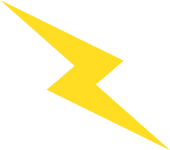
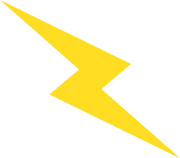
Set new left/right bolt position

diff --git a/game.cpp b/game.cpp
@@ -155,22 +155,12 @@ Result gameLevel(OSL_SOUND *quit_open, OSL_SOUND *quit_close, OSL_SOUND *cancel,
 		}
 
 		// activates random bolts's appearance for each side, depending on maximum number of bolts set above for each side
-		/*for (i=LEFT; i<DOWN+1; i++) {
+		for (i=LEFT; i<DOWN+1; i++) {
 			n = 0;
 			for (j=0; j<4; j++) {
 				boltOn[i][j] = 0;
 				if ((n <nbBolt[i]) && (i <UP) && (j<MAXBOLTY))	boltOn[i][j] = rand()%2;
 				else if ((n <nbBolt[i]) && (i >RIGHT))	boltOn[i][j] = rand()%2;
-				if (boltOn[i][j])	n++;
-			}
-		}*/
-		// activates random bolts's appearance for each side, depending on maximum number of bolts set above for each side
-		for (i=LEFT; i<DOWN+1; i++) {
-			n = 0;
-			for (j=0; j<4; j++) {
-				boltOn[i][j] = 1;
-				if (i <UP)	boltOn[i][j] = 0;
-				//else if ((n <nbBolt[i]) && (i >RIGHT))	boltOn[i][j] = rand()%2;
 				if (boltOn[i][j])	n++;
 			}
 		}

diff --git a/constants.h b/constants.h
@@ -47,8 +47,8 @@ by Yosh alias Hitman_07
 //bolt disposition parameters
 # define BORDER_LAGX1 20
 # define BORDER_LAGX2 86
-# define BORDER_LAGY1 60
-# define BORDER_LAGY2 60
+# define BORDER_LAGY1 50
+# define BORDER_LAGY2 50
 # define N_LAGX1 ((WIDTH - 2*BORDER_LAGX1 - MAXBOLTX*vbolt->sizeX) / (MAXBOLTX - 1))
 # define N_LAGX2 ((WIDTH - 2*BORDER_LAGX2 - MAXBOLTX*vbolt->sizeX) / (MAXBOLTX - 1))
 # define N_LAGY1 ((HEIGHT - 2*BORDER_LAGY1 - MAXBOLTY*hbolt->sizeY) / (MAXBOLTY - 1))
